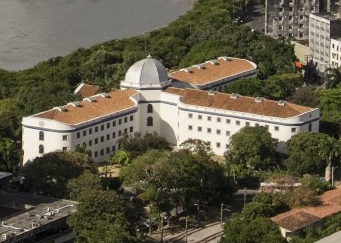
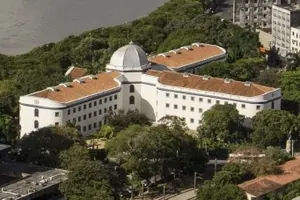
Otimizar imagens e corrigir titulo da pagina Sobre

diff --git a/camara/sobre.html b/camara/sobre.html
@@ -25,7 +25,7 @@
     content="https://jubileujandira.github.io/wdd231/camara/sobre.html">
   <meta property="og:type" content="website">
 
-  <title>Descobrir Recife | Câmara de Comércio</title>
+  <title>Sobre Recife | Câmara de Comércio</title>
 
   <link rel="icon" href="favicon.ico">
 
